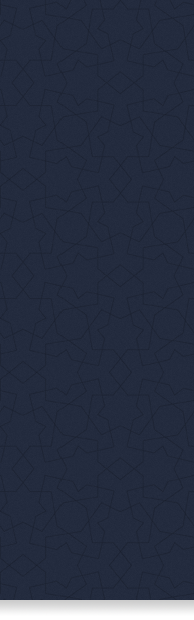
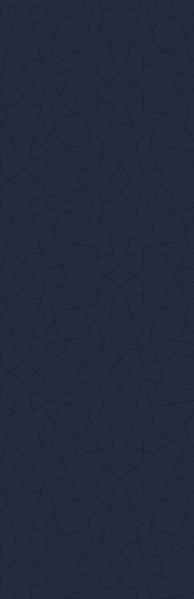
up

Changed region(s): [[0.0, 0.9616, 1.0, 1.0]]

diff --git a/0311071998/eco-num-ma-avenir.html b/0311071998/eco-num-ma-avenir.html
@@ -163,7 +163,7 @@ color:#d7df21;
 <div class="main">
 <div style="position:fixed;margin-top:50px;"><a href="./" style="margin-left:25px;"><button class="btn btn-primary btn-fill" style="border-color:#d7df21;background-color:#d7df21;">&#8592; Retourner &agrave; l'acceuil</button></a><div class="share-button"></div></div>
 
-    <div class="container tim-container" style="padding-top:50px;background:url('http://i.imgur.com/am9Je01.png')">
+    <div class="container tim-container" style="padding-top:50px;background:url('http://i.imgur.com/19sONtN.png')">
        <h1 class="text-center"><img src="assets/img/logo-ces.png" alt="Le CES en images"><small class="subtitle" style="font-family:'Bitter';">Ma visite &agrave; l'International <abbr title="Consumer Electronics Show" style="font-family:'Bitter';">CES</abbr> document&eacute;e en images.</small></h1>
       <p style="text-align:center;">D&eacute;but janvier se tenait, &agrave; Las Vegas, l'International Consummer Electronics Show (CES) auquel s'est rendu l'&eacute;quipe de Coniuncta. Durant ces 3 jours, nous avons decouvert les innovations de demain. Reportage.<br /></p>
 
